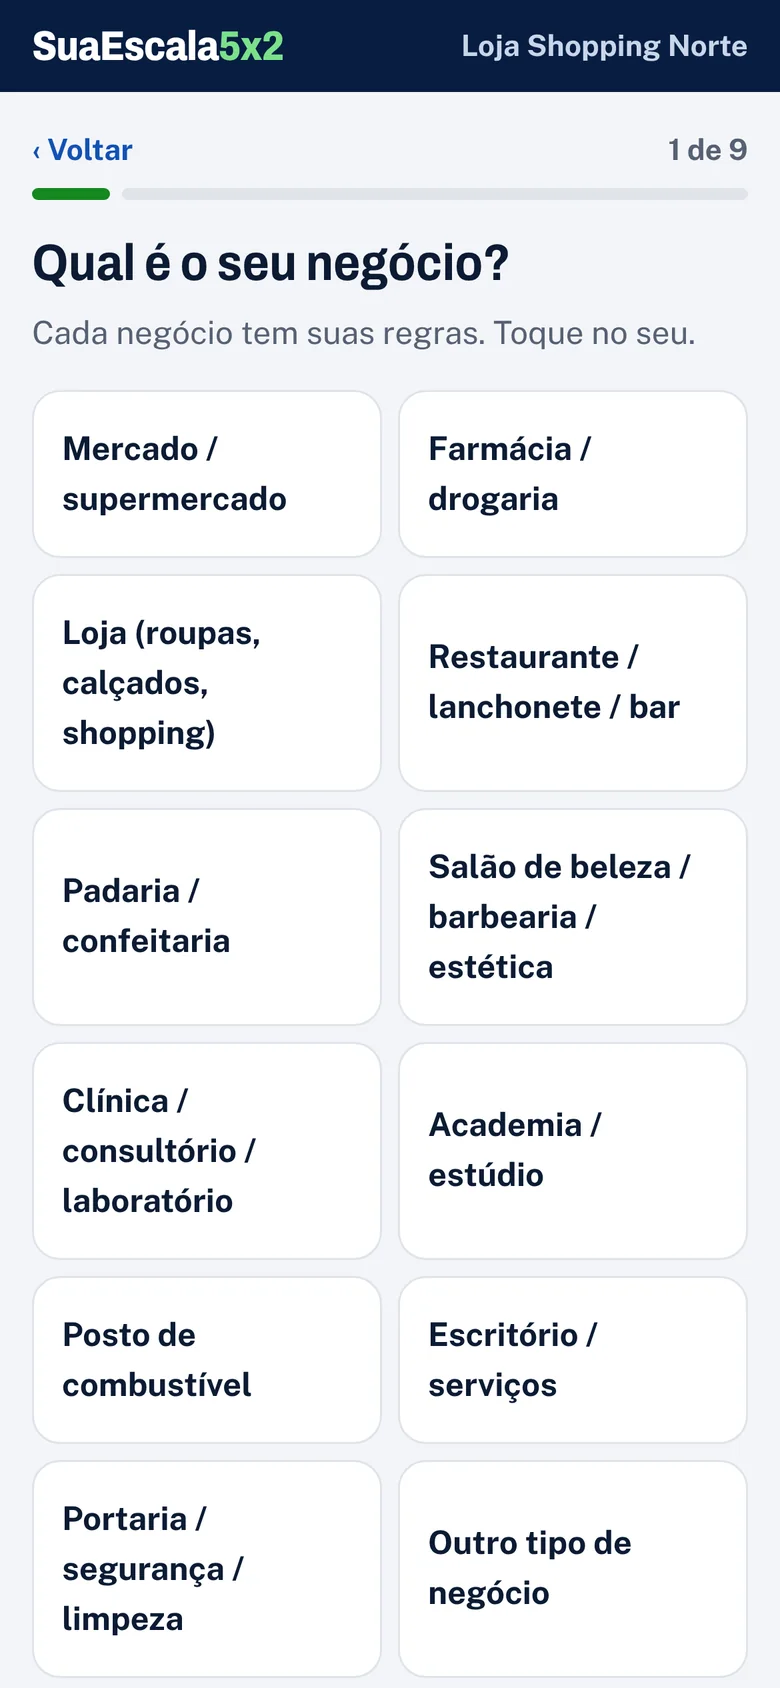
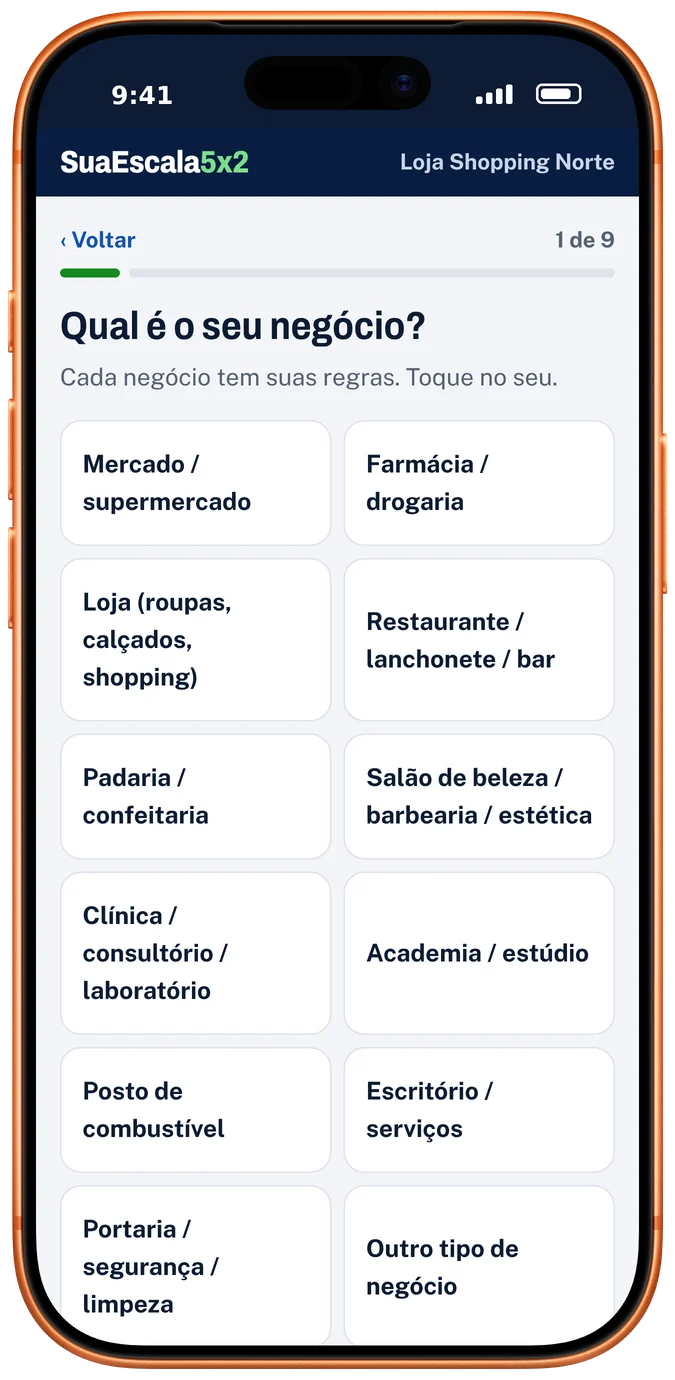
Página: aparelhos reais (molduras oficiais da Apple) e carrossel com 3 notícias reais
Claude-Session: https://claude.ai/code/session_01HxkLZ3gGDkC4UUqvQGUqJ2

diff --git a/app/public/index.html b/app/public/index.html
@@ -94,24 +94,11 @@ a:focus-visible,button:focus-visible,summary:focus-visible,input:focus-visible{o
 .janela-barra{display:flex;align-items:center;gap:6px;padding:10px 14px;background:#eef2f8;border-bottom:1px solid var(--linha)}
 .janela-barra i{width:10px;height:10px;border-radius:50%;background:#ff5f57}.janela-barra i:nth-child(2){background:#febc2e}.janela-barra i:nth-child(3){background:#28c840}
 .janela-barra span{margin-left:12px;font-size:.78rem;color:var(--mut);background:#fff;border-radius:6px;padding:3px 14px}
-.macbook{position:relative;width:86%;transform:perspective(1800px) rotateY(-9deg) rotateX(3deg);transform-origin:left center;filter:drop-shadow(0 50px 60px rgba(0,0,0,.55))}
-.mac-tela{position:relative;background:#050506;border-radius:20px 20px 4px 4px;padding:2.2% 2.2% 2.6%;box-shadow:inset 0 0 0 1px #2c2d31,0 0 0 2px #1d1e21}
-.mac-tela::before{content:"";position:absolute;z-index:2;top:2.2%;left:50%;width:12%;height:3.4%;background:#050506;border-radius:0 0 9px 9px;transform:translateX(-50%)}
-.mac-tela::after{content:"";position:absolute;z-index:3;top:3%;left:50%;width:5px;height:5px;border-radius:50%;background:#1b2433;box-shadow:inset 0 0 1px #3d4b66;transform:translateX(-50%)}
-.mac-tela img{display:block;border-radius:2px;width:100%}
-.mac-base{position:relative;height:15px;margin:0 -7.5%;background:linear-gradient(180deg,#4a4b50 0,#2c2d31 18%,#1c1d20 60%,#0e0e10);border-radius:3px 3px 20px 20px;box-shadow:inset 0 1px 0 #5c5d63}
-.mac-base::before{content:"";position:absolute;left:50%;top:0;width:14%;height:5px;background:linear-gradient(#141518,#26272b);border-radius:0 0 9px 9px;transform:translateX(-50%)}
-.iphone{position:absolute;right:0;bottom:0;width:27%;min-width:132px;padding:2.1%;border:clamp(3px,.35vw,5px) solid transparent;background:linear-gradient(#030303,#030303) padding-box,linear-gradient(140deg,#ffb27a 0%,#f0782f 18%,#c9561b 45%,#e8712c 70%,#ffa264 100%) border-box;border-radius:clamp(28px,3.4vw,52px);box-shadow:0 40px 70px -24px rgba(0,0,0,.75);animation:boia 7s ease-in-out infinite}
-.iphone::before{content:"";position:absolute;z-index:2;top:3.6%;left:50%;width:31%;height:3.3%;border-radius:99px;background:#000;transform:translateX(-50%)}
-.iphone .botao{position:absolute;right:calc(-1 * clamp(5px,.55vw,8px));top:26%;width:clamp(3px,.3vw,4px);height:11%;border-radius:0 3px 3px 0;background:#d8652a}
-.iphone .botao.v1{left:calc(-1 * clamp(5px,.55vw,8px));right:auto;top:25%;height:8%;border-radius:3px 0 0 3px}
-.iphone .botao.v2{left:calc(-1 * clamp(5px,.55vw,8px));right:auto;top:35%;height:8%;border-radius:3px 0 0 3px}
-.iphone-tela{position:relative;overflow:hidden;border-radius:clamp(22px,2.7vw,42px);display:grid;background:#0c1b33;padding-top:13%}
-.iphone-tela img{grid-area:1/1;width:100%;display:block}
-.iphone.grande{position:relative;right:auto;bottom:auto;width:min(330px,78%);margin:0 auto;padding:10px;border-width:5px;border-radius:56px;animation:none}
-.iphone.grande .botao{width:5px}
-.iphone.grande .botao:not(.v1):not(.v2){right:-10px}.iphone.grande .v1,.iphone.grande .v2{left:-10px}
-.iphone.grande .iphone-tela{border-radius:44px}
+.mac-real{display:block;width:92%;height:auto;filter:drop-shadow(0 40px 50px rgba(0,0,0,.55))}
+.iphone-real{position:absolute;right:-2%;bottom:-4%;width:27%;min-width:130px;height:auto;filter:drop-shadow(0 30px 40px rgba(0,0,0,.6));animation:boia 7s ease-in-out infinite}
+.iphone-troca{position:relative;display:grid;width:min(330px,78%);margin:0 auto;filter:drop-shadow(0 40px 50px rgba(6,21,51,.35))}
+.iphone-troca img{grid-area:1/1;width:100%;height:auto;transition:opacity .45s}
+.iphone-troca img:not(.on){opacity:0}
 @keyframes boia{50%{transform:translateY(-12px)}}
 .chip{position:absolute;z-index:2;display:flex;align-items:center;gap:10px;background:rgba(255,255,255,.96);color:var(--tinta);border-radius:14px;padding:11px 15px;box-shadow:0 22px 44px -16px rgba(0,0,0,.55);font-weight:700;font-size:.9rem;line-height:1.25;animation:boia 6s ease-in-out infinite}
 .chip small{display:block;font-weight:500;color:var(--mut);font-size:.78rem}
@@ -171,7 +158,15 @@ a:focus-visible,button:focus-visible,summary:focus-visible,input:focus-visible{o
 
 
 /* notícias reais */
-.noticias{display:grid;grid-template-columns:repeat(2,minmax(0,1fr));gap:20px}
+.carrossel{position:relative}
+.noticias{display:flex;gap:20px;overflow-x:auto;scroll-snap-type:x mandatory;scroll-behavior:smooth;padding:6px 4px 26px;scrollbar-width:none}
+.noticias::-webkit-scrollbar{display:none}
+.noticias .noticia{flex:0 0 min(620px,86%);scroll-snap-align:center}
+.seta{position:absolute;z-index:2;top:42%;width:48px;height:48px;border-radius:50%;border:0;background:#fff;color:var(--tinta);font:700 1.7rem/1 var(--corpo);box-shadow:0 12px 30px -10px rgba(6,21,51,.5);cursor:pointer}
+.seta.ant{left:-14px}.seta.prox{right:-14px}
+.pontos{display:flex;justify-content:center;gap:8px}
+.pontos button{width:10px;height:10px;border-radius:99px;border:0;background:#c3cfe2;cursor:pointer;padding:0;transition:width .3s,background .3s}
+.pontos button.on{width:28px;background:var(--azul)}
 .noticia{display:block;text-decoration:none;color:inherit;background:#fff;border-radius:16px;overflow:hidden;box-shadow:0 24px 50px -30px rgba(6,21,51,.5),0 0 0 1px var(--linha);transition:transform .3s,box-shadow .3s}
 .noticia:hover{transform:translateY(-4px);box-shadow:0 30px 60px -30px rgba(6,21,51,.6),0 0 0 1px var(--azul-vivo)}
 .noticia .print{display:block;overflow:hidden;border-bottom:1px solid var(--linha)}
@@ -179,7 +174,7 @@ a:focus-visible,button:focus-visible,summary:focus-visible,input:focus-visible{o
 .noticia p{display:flex;justify-content:space-between;gap:12px;padding:14px 18px;font-size:.92rem;margin:0}
 .noticia p b{color:var(--tinta)}
 .noticia p span{color:var(--azul);font-weight:700;white-space:nowrap}
-@media(max-width:760px){.noticias{grid-template-columns:1fr}}
+@media(max-width:760px){.seta{display:none}}
 
 /* app */
 .app-grid{display:grid;grid-template-columns:minmax(0,.8fr) minmax(0,1.2fr);gap:clamp(30px,5vw,64px);align-items:center}
@@ -390,8 +385,8 @@ dialog::backdrop{background:rgba(6,21,51,.7);backdrop-filter:blur(4px)}
     </div>
     <div class="vitrine" data-e style="--d:2">
       <img class="ze-espia" src="img/mascote.svg" alt="Zé Folga, o mascote da Sua Escala 5x2">
-      <div class="macbook"><div class="mac-tela"><img src="img/mac-tabela.webp" width="1440" height="900" alt="A Sua Escala 5x2 no computador: a tabela pronta, com as formas de enviar e as folgas de cada funcionário."></div><div class="mac-base"></div></div>
-      <div class="iphone"><i class="botao"></i><i class="botao v1"></i><i class="botao v2"></i><div class="iphone-tela"><img src="img/iphone-escala.webp" width="780" height="1688" alt="A Sua Escala 5x2 no iPhone: quem trabalha e quem folga no dia."></div></div>
+      <img class="mac-real" src="img/mac-tabela.webp" width="1544" height="1016" alt="A Sua Escala 5x2 num MacBook Pro: a tabela pronta, com as formas de enviar e as folgas de cada funcionário.">
+      <img class="iphone-real" src="img/iphone-escala.webp" width="675" height="1380" alt="A Sua Escala 5x2 num iPhone 17 Pro: quem trabalha e quem folga no dia.">
       <div class="chip c1"><b>✓</b><div>Dentro da lei<small>conferido antes de entregar</small></div></div>
       <div class="chip c2"><b>2</b><div>folgas por funcionário<small>como manda a nova lei</small></div></div>
     </div>
@@ -417,12 +412,12 @@ dialog::backdrop{background:rgba(6,21,51,.7);backdrop-filter:blur(4px)}
 <section class="sec gelo" id="noticias">
   <div class="wrap">
     <div class="cab-sec centro" style="text-align:center"><span class="etq">Não é boato</span><h2>Saiu em todos os jornais</h2><p style="margin-inline:auto">A Emenda Constitucional 141/2026 foi promulgada pelo Congresso em 16 de outubro de 2026. Toque na notícia para ler na fonte.</p></div>
-    <div class="noticias">
-      <a class="noticia" data-r href="https://agenciabrasil.ebc.com.br/politica/noticia/2026-10/congresso-promulga-emenda-do-fim-da-6x1-escala-5x2-comeca-em-60-dias" target="_blank" rel="noopener"><span class="print"><img src="img/noticias/agbr-60dias.webp" width="1100" height="550" alt="Agência Brasil: Congresso promulga emenda do fim da 6x1; escala 5x2 começa em 60 dias" loading="lazy"></span><p><b>Agência Brasil · 16/10/2026</b><span>Ler na fonte ›</span></p></a>
-      <a class="noticia" data-r style="--d:1" href="https://agenciabrasil.ebc.com.br/politica/noticia/2026-10/saiba-quando-comeca-valer-o-fim-da-escala-6-por-1" target="_blank" rel="noopener"><span class="print"><img src="img/noticias/agbr-quando.webp" width="1100" height="550" alt="Agência Brasil: Saiba quando começa a valer o fim da escala 6x1. A partir de 15 de dezembro de 2026, a nova jornada entra em vigor em todo o país." loading="lazy"></span><p><b>Agência Brasil · 16/10/2026</b><span>Ler na fonte ›</span></p></a>
-      <a class="noticia" data-r href="https://www.camara.leg.br/noticias/1311797-congresso-promulga-emenda-que-acaba-com-escala-6x1-e-estabelece-jornada-maxima-de-40-horas-semanais" target="_blank" rel="noopener"><span class="print"><img src="img/noticias/camara.webp" width="1100" height="550" alt="Agência Câmara: Congresso promulga emenda que acaba com escala 6x1 e estabelece jornada máxima de 40 horas semanais" loading="lazy"></span><p><b>Câmara dos Deputados · 16/10/2026</b><span>Ler na fonte ›</span></p></a>
-      <a class="noticia" data-r style="--d:1" href="https://www.brasildefato.com.br/2026/10/16/promulgada-escala-5x2-passa-a-valer-na-semana-anterior-ao-natal/" target="_blank" rel="noopener"><span class="print"><img src="img/noticias/brasildefato.webp" width="1100" height="550" alt="Brasil de Fato: Promulgada: escala 5x2 passa a valer na semana anterior ao Natal" loading="lazy"></span><p><b>Brasil de Fato · 16/10/2026</b><span>Ler na fonte ›</span></p></a>
-    </div>
+    <div class="carrossel"><button class="seta ant" type="button" aria-label="Notícia anterior">‹</button><div class="noticias" id="noticiasTrilho">
+            <a class="noticia" href="https://agenciabrasil.ebc.com.br/politica/noticia/2026-10/saiba-quando-comeca-valer-o-fim-da-escala-6-por-1" target="_blank" rel="noopener"><span class="print"><img src="img/noticias/agbr-quando.webp" width="1100" height="550" alt="Agência Brasil: Saiba quando começa a valer o fim da escala 6x1. A partir de 15 de dezembro de 2026, a nova jornada entra em vigor em todo o país." loading="lazy"></span><p><b>Agência Brasil · 16/10/2026</b><span>Ler na fonte ›</span></p></a>
+      <a class="noticia" href="https://www.camara.leg.br/noticias/1311797-congresso-promulga-emenda-que-acaba-com-escala-6x1-e-estabelece-jornada-maxima-de-40-horas-semanais" target="_blank" rel="noopener"><span class="print"><img src="img/noticias/camara.webp" width="1100" height="550" alt="Agência Câmara: Congresso promulga emenda que acaba com escala 6x1 e estabelece jornada máxima de 40 horas semanais" loading="lazy"></span><p><b>Câmara dos Deputados · 16/10/2026</b><span>Ler na fonte ›</span></p></a>
+      <a class="noticia" href="https://www.brasildefato.com.br/2026/10/16/promulgada-escala-5x2-passa-a-valer-na-semana-anterior-ao-natal/" target="_blank" rel="noopener"><span class="print"><img src="img/noticias/brasildefato.webp" width="1100" height="550" alt="Brasil de Fato: Promulgada: escala 5x2 passa a valer na semana anterior ao Natal" loading="lazy"></span><p><b>Brasil de Fato · 16/10/2026</b><span>Ler na fonte ›</span></p></a>
+    </div><button class="seta prox" type="button" aria-label="Próxima notícia">›</button></div>
+    <div class="pontos" id="noticiasPontos"></div>
   </div>
 </section>
 
@@ -486,11 +481,11 @@ dialog::backdrop{background:rgba(6,21,51,.7);backdrop-filter:blur(4px)}
         <button class="aba" role="tab" aria-selected="false" data-tela="2"><strong>3. Baixe ou envie do seu jeito</strong><span>WhatsApp, PDF, Excel, Google Planilhas, imagem ou o link para a equipe.</span></button>
       </div>
       <div class="fundo-app" data-r>
-        <div class="iphone grande"><i class="botao"></i><i class="botao v1"></i><i class="botao v2"></i><div class="iphone-tela tela-img">
-          <img class="on" src="img/iphone-quiz.webp" width="780" height="1688" alt="A primeira pergunta no iPhone: qual é o seu negócio.">
-          <img src="img/iphone-escala.webp" width="780" height="1688" alt="A escala pronta no iPhone: quem trabalha e quem folga no dia." loading="lazy">
-          <img src="img/iphone-saidas.webp" width="780" height="1688" alt="As formas de enviar a escala no iPhone: WhatsApp, PDF, Excel, CSV e Google Planilhas." loading="lazy">
-        </div></div>
+        <div class="iphone-troca tela-img">
+          <img class="on" src="img/iphone-quiz.webp" width="675" height="1380" alt="A primeira pergunta num iPhone 17 Pro: qual é o seu negócio.">
+          <img src="img/iphone-escala.webp" width="675" height="1380" alt="A escala pronta num iPhone 17 Pro: quem trabalha e quem folga no dia." loading="lazy">
+          <img src="img/iphone-saidas.webp" width="675" height="1380" alt="As formas de enviar a escala num iPhone 17 Pro: WhatsApp, PDF, Excel, CSV e Google Planilhas." loading="lazy">
+        </div>
       </div>
     </div>
   </div>
@@ -700,6 +695,23 @@ $('#formCompra').addEventListener('submit', async e => {
     btn.disabled = false; btn.textContent = 'Ir para o pagamento';
   }
 });
+
+// carrossel das notícias: passa sozinho, para quando a pessoa mexe
+(() => {
+  const t = document.getElementById('noticiasTrilho'); if (!t) return;
+  const cards = [...t.children], pts = document.getElementById('noticiasPontos');
+  cards.forEach((_, i) => { const b = document.createElement('button'); b.type = 'button'; b.setAttribute('aria-label', 'Notícia ' + (i + 1)); b.onclick = () => { parar(); vai(i); }; pts.appendChild(b); });
+  let atual = 0, tempo = null;
+  const vai = i => { atual = (i + cards.length) % cards.length; t.scrollTo({left: cards[atual].offsetLeft - (t.clientWidth - cards[atual].clientWidth) / 2, behavior: 'smooth'}); };
+  const marca = () => { const c = t.scrollLeft + t.clientWidth / 2; let m = 0, d = 1e9; cards.forEach((k, i) => { const x = Math.abs(k.offsetLeft + k.clientWidth / 2 - c); if (x < d) { d = x; m = i; } }); atual = m; [...pts.children].forEach((b, i) => b.classList.toggle('on', i === m)); };
+  const parar = () => { clearInterval(tempo); tempo = null; };
+  t.addEventListener('scroll', () => requestAnimationFrame(marca), {passive: true});
+  t.addEventListener('pointerdown', parar); t.addEventListener('wheel', parar, {passive: true});
+  document.querySelector('.carrossel .ant').onclick = () => { parar(); vai(atual - 1); };
+  document.querySelector('.carrossel .prox').onclick = () => { parar(); vai(atual + 1); };
+  marca();
+  if (!calmo) new IntersectionObserver(es => es.forEach(e => { if (e.isIntersecting && !tempo) tempo = setInterval(() => vai(atual + 1), 4000); else if (!e.isIntersecting) parar(); })).observe(t);
+})();
 
 // vídeo: a seção só aparece quando o arquivo do vídeo existe
 fetch('/video/vsl.mp4', {method: 'HEAD'}).then(r => { if (!r.ok) throw 0; }).catch(() => {

diff --git a/CLAUDE.md b/CLAUDE.md
@@ -25,9 +25,9 @@ SaaS que gera a escala 5x2 (EC 141/2026, fim da 6x1) para empresas. Vendido por 
 - `app/public/exportar.js`: a tabela pronta (`#tabela`) e as saídas: WhatsApp (imagem), PDF, Excel .xlsx, CSV, Google Planilhas (`=IMPORTDATA` do link `/api/publico/planilha/:token`), JPG, texto, link da equipe, imprimir. Tudo gerado no aparelho, sem biblioteca.
 - `app/public/aula.js`: aula da nova lei (`#aula`), 8 lições com exemplo e teste rápido.
 - `app/public/extras.js`: colocar na tela inicial (PWA: `manifest.webmanifest`, `sw.js`, `#instalar`), Indique e ganhe (`#indique`) e cadastrar outra empresa.
-- Logos dos formatos em `app/public/img/formatos/`: logos oficiais baixados do Wikimedia Commons (WhatsApp, Adobe Acrobat para PDF, Excel 2025, Google Planilhas, Google Fotos para imagem); CSV, link, texto, imprimir e tela inicial são desenhos próprios. Prints do app na página de vendas sempre em iPhone (`img/iphone-*.webp`) e, no computador, em MacBook (`img/mac-*.webp`).
+- Logos dos formatos em `app/public/img/formatos/`: logos oficiais baixados do Wikimedia Commons (WhatsApp, Adobe Acrobat para PDF, Excel 2025, Google Planilhas, Google Fotos para imagem); CSV, link, texto, imprimir e tela inicial são desenhos próprios. Prints do app na página de vendas sempre dentro das molduras oficiais da Apple (Apple Design Resources: iPhone 17 Pro Cosmic Orange e MacBook Pro M5 14" Space Black), em `img/iphone-*.webp` e `img/mac-*.webp`.
 - `app/site.js`: site público. Injeta no `<!--HEAD-->` de index/ajuda/privacidade/termos/obrigado: canonical, Open Graph (`img/og.png`), Twitter, verificação Google/Meta e JSON-LD (SoftwareApplication, Organization, FAQPage tirado dos `<details>`). Troca `{{EMPRESA_*}}`, `{{CONTATO}}`, `{{PRECO}}`, `{{ANO}}`. Serve `robots.txt`, `sitemap.xml`, `llms.txt`, `/rastreio.js` (Meta Pixel, GA4, GTM só depois do "Aceitar" no aviso de cookies; modo de consentimento do Google começa negado; `window.rastrear(evento)`), a compra pela API de Conversões da Meta (`META_CAPI_TOKEN`) e a página 404.
-- Prints das notícias reais da EC 141/2026 em `app/public/img/noticias/` (seção `#noticias` da página de vendas, com link para a fonte). A regra vale a partir de 15/12/2026 (Agência Brasil); 40h a partir de 15/12/2027.
+- Prints das notícias reais da EC 141/2026 em `app/public/img/noticias/` (carrossel com 3 notícias na seção `#noticias` da página de vendas, com link para a fonte). A regra vale a partir de 15/12/2026 (Agência Brasil); 40h a partir de 15/12/2027.
 - `app/public/privacidade.html` e `termos.html` (reembolso em `#reembolso`, regras do Indique e ganhe em `#indique`).
 - `marketing/video/`: vídeo em motion (Reels) e o projeto para gerar de novo.
 
